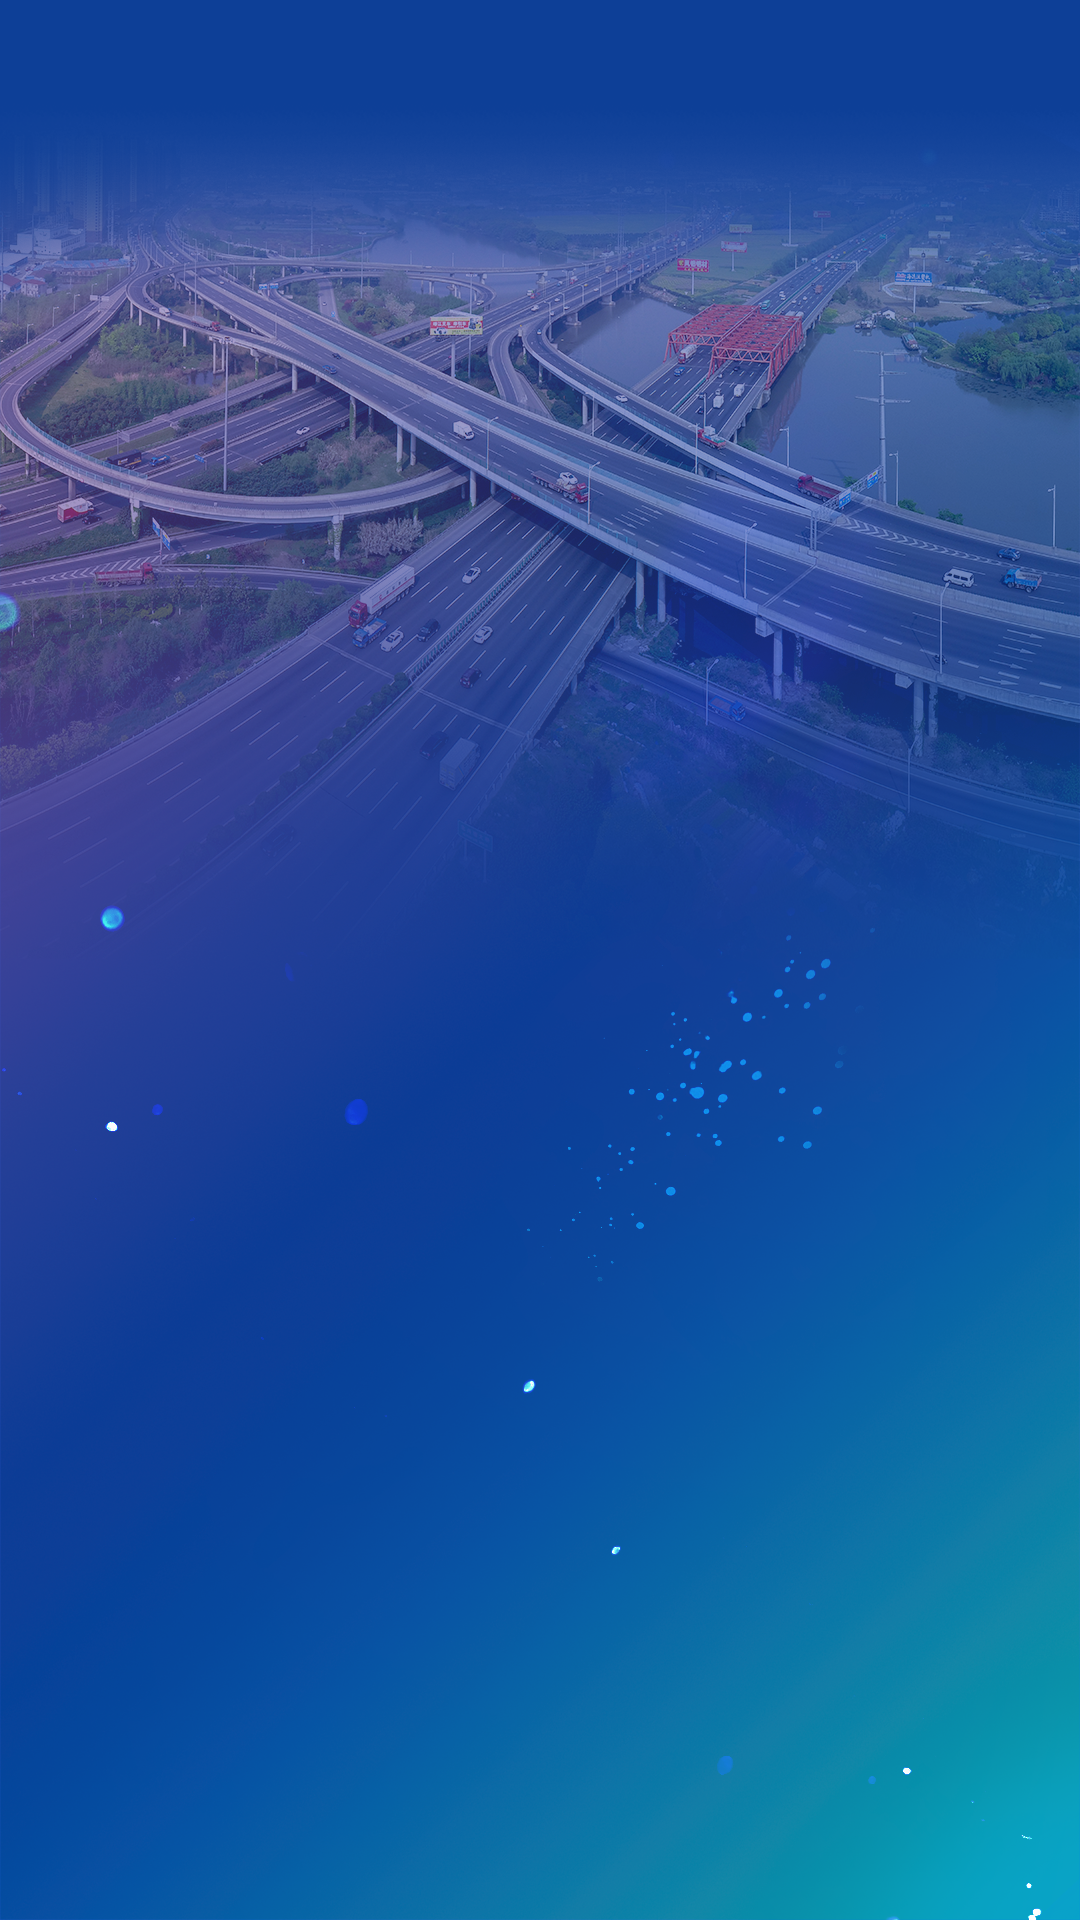
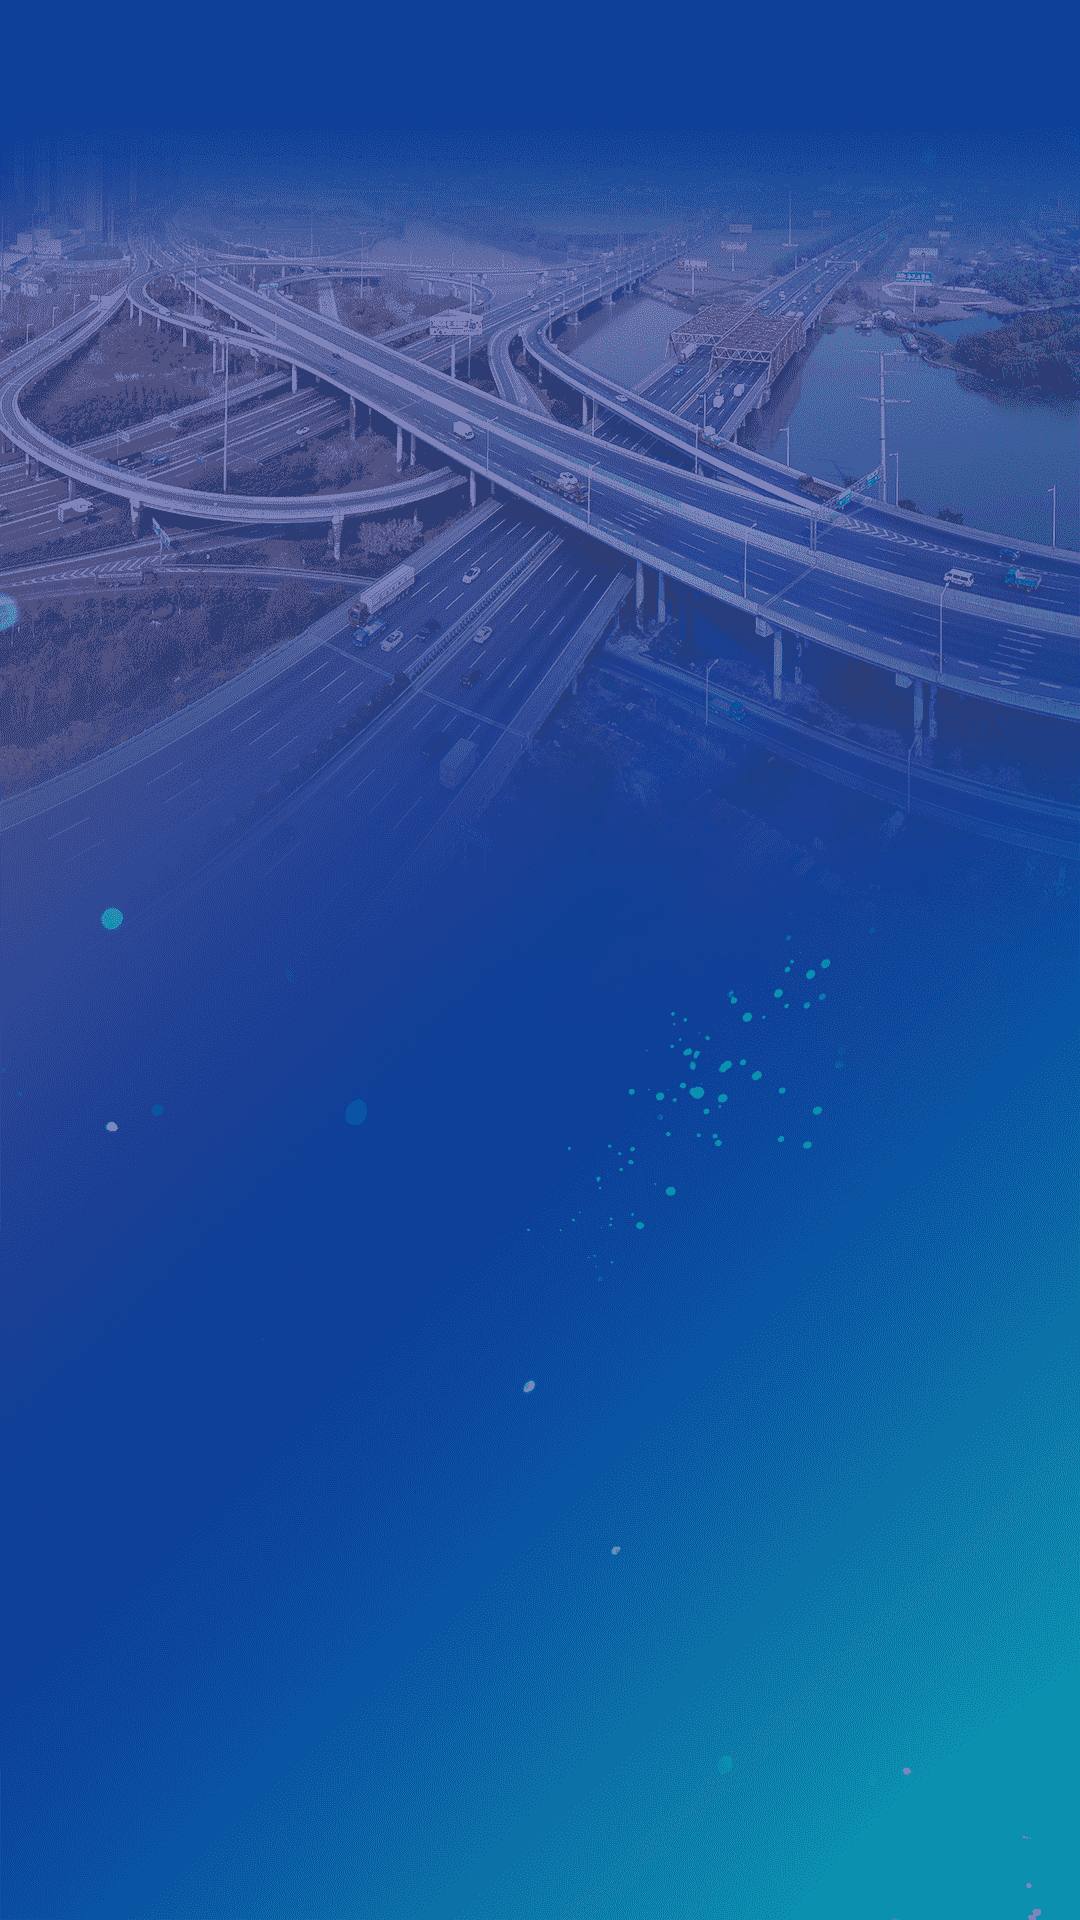
调整页面显示内容以及压缩资源大小和移除定位相关配置

diff --git a/src/router/index.js b/src/router/index.js
@@ -1,25 +1,15 @@
 import { createRouter, createWebHistory } from 'vue-router';
 
 
-import QrCodeGenerator from '../views/QrCodeGenerator.vue';
-import ZhiNan from '@/views/ZhiNan.vue';
-import GPSLocation from '@/views/GPSLocation.vue';
+// import QrCodeGenerator from '../views/QrCodeGenerator.vue';
+// import ZhiNan from '@/views/ZhiNan.vue';
+// import GPSLocation from '@/views/GPSLocation.vue';
 import NewMoblieEmergency from '@/views/newMoblieEmergency.vue';
 import newZhiNan from '@/views/newZhiNan.vue';
-import mobileEmergencyAdmin from '@/views/mobileEmergencyAdmin.vue';
-import WebSocketTest from '@/views/WebSocketTest.vue';
-import MBBar from '@/views/MBBar.vue';
+// import mobileEmergencyAdmin from '@/views/mobileEmergencyAdmin.vue';
+// import WebSocketTest from '@/views/WebSocketTest.vue';
+// import MBBar from '@/views/MBBar.vue';
 const routes = [
-  {
-    path: '/',
-    redirect: '/roadside/未知'
-  },
-  {
-    path: '/zhinan/:address',
-    name: 'ZhiNan',
-    component: ZhiNan,
-    props: true,
-  },
   {
     path: '/roadside/:number',
     name: 'NewMoblieEmergency',
@@ -31,37 +21,7 @@ const routes = [
     name: 'newZhiNan',
     component: newZhiNan,
     props: true,
-  },
-  {
-    path: '/qrcode/:content(.*)', // 路由路径包含参数 :content
-    name: 'QrCodeGenerator',
-    component: QrCodeGenerator,
-    props: true, // 将路由参数作为属性传递给组件
-  },
-  {
-    path: '/location', // 路由路径包含参数 :content
-    name: 'GPSLocation',
-    component: GPSLocation,
-    props: true, // 将路由参数作为属性传递给组件
-  },
-  {
-    path: '/admin', // 路由路径包含参数 :content
-    name: 'mobileEmergencyAdmin',
-    component: mobileEmergencyAdmin,
-    props: true, // 将路由参数作为属性传递给组件
-  },
-  {
-    path: '/ws', // 路由路径包含参数 :content
-    name: 'WebSocketTest',
-    component: WebSocketTest,
-    props: true, // 将路由参数作为属性传递给组件
-  },
-  {
-    path: '/mb',
-    name: 'MBBar',
-    component: MBBar,
-    props: true,
-  },
+  }
 ];
 
 const router = createRouter({

diff --git a/src/views/GPSLocation.vue b/src/views/GPSLocation.vue
@@ -64,7 +64,7 @@ export default {
      async getLocationByIp(ip) {
       try {
         console.log('开始通过公网 IP 地址获取详细地址',this.publicIp);
-        const response = await axios.get('https://restapi.amap.com/v3/ip?key=ccbe1ab050992d2c47eaef6606410913&ip=' + ip);
+        const response = await axios.get('https://restapi.amap.com/v3/ip?key=11&ip=' + ip);
         console.log('通过公网 IP 地址获取详细地址:', response.data);
         this.gLocation = response.data;
         console.log('通过公网 IP 地址获取详细地址', this.gLocation);
@@ -72,12 +72,12 @@ export default {
         console.error('通过公网 IP 地址获取详细地址', error);
       }
     },
-    //https://restapi.amap.com/v3/staticmap?location=118.866454,32.012506&zoom=16&size=500*500&markers=mid,0xFF0000,A:118.866454,32.012506&key=ccbe1ab050992d2c47eaef6606410913
+    //https://restapi.amap.com/v3/staticmap?location=118.866454,32.012506&zoom=16&size=500*500&markers=mid,0xFF0000,A:118.866454,32.012506&key=111
     async getLocationIamge(){
       try {
         const location = this.location.longitude+','+this.location.latitude;
         console.log('地址拼接',location);
-        const response = await fetch('https://restapi.amap.com/v3/staticmap?location='+location+'&zoom=16&size=400*400&markers=mid,0xFF0000,A:'+location+'&key=ccbe1ab050992d2c47eaef6606410913',
+        const response = await fetch('https://restapi.amap.com/v3/staticmap?location='+location+'&zoom=16&size=400*400&markers=mid,0xFF0000,A:'+location+'&key=111',
         {
           method: 'GET',
           headers: {

diff --git a/src/views/newMoblieEmergency.vue b/src/views/newMoblieEmergency.vue
@@ -22,11 +22,11 @@
     <!-- <p class="address">当前桩号<span class="address-detail"><br>{{ address }}</span></p> -->
     <!-- <button @click="showMap">显示地图</button> -->
     <div class="btn-container">
-      <button class="btn" @click="makeCall1">快速报警救援电话1<br></button>
+      <button class="btn" @click="makeCall1">快速报警电话(事故)<br></button>
       <!-- <AppModal :isVisible="isModalVisible" :content="modalContent" @close="closeModal" /> -->
     </div>
     <div class="mangeMoblie-container">
-      <button class="mangeMoblie" @click="makeCall2">快速报警救援电话2<br></button>
+      <button class="mangeMoblie" @click="makeCall2">快速报警电话(救援)<br></button>
       <!-- <p class="mangeMoblie" @click="makeCall">拨打管理中心电话({{ mangeMoblie }})</p> -->
     </div>
 
